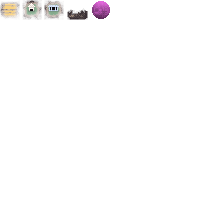
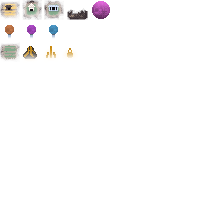
Replacement sprites for tiles

diff --git a/Assets/Scripts/GridView/LandGridTile.cs b/Assets/Scripts/GridView/LandGridTile.cs
@@ -9,12 +9,14 @@ public class LandGridTile : ManagedBehaviour
 
     public TileImprovementType Improvement { get; private set; }
 
-    public void AddImprovement(TileImprovementType improvementType)
+    public void AddImprovement(TileImprovementType improvementType, CivType civ)
     {
         Improvement = improvementType;
-        var prefab = GameDataReferences.GetTimeImprovementPrefab(improvementType);
+        var prefab = GameDataReferences.GetTileImprovementPrefab(improvementType);
         var obj = Instantiate(prefab, transform);
         obj.transform.localPosition = Vector2.zero;
+
+        obj.GetComponent<TileImprovement>().SetCiv(civ);
 
         ScreenShake.instance.AddIntensity(3f);
     }

diff --git a/Assets/Scripts/GridView/TileImprovement.cs b/Assets/Scripts/GridView/TileImprovement.cs
@@ -15,4 +15,21 @@ public class TileImprovement : ManagedBehaviour
     public TileImprovementType ImprovementType => improvementType;
     [SerializeField]
     private TileImprovementType improvementType;
+
+    public SpriteRenderer sr;
+
+    public List<CivType> civs = new List<CivType>();
+    public List<Sprite> sprites = new List<Sprite>();
+
+    public void SetCiv(CivType civ)
+    {
+        if (civs.Contains(civ))
+        {
+            int index = civs.IndexOf(civ);
+            if (index < sprites.Count && sr != null)
+            {
+                sr.sprite = sprites[index];
+            }
+        }
+    }
 }

diff --git a/Assets/Scripts/GridView/LandGrid.cs b/Assets/Scripts/GridView/LandGrid.cs
@@ -44,12 +44,12 @@ public class LandGrid : ManagedBehaviour
     }
 #endif
 
-    public void AddImprovementToRandomTile(TileImprovementType improvementType)
+    public void AddImprovementToRandomTile(TileImprovementType improvementType, CivType civ)
     {
         var openTiles = tiles.FindAll(x => x.gameObject.activeSelf && x.Improvement == TileImprovementType.None);
         if (openTiles.Count > 0)
         {
-            openTiles[Random.Range(0, openTiles.Count)].AddImprovement(improvementType);
+            openTiles[Random.Range(0, openTiles.Count)].AddImprovement(improvementType, civ);
         }
     }
 

diff --git a/Assets/Scripts/GameDataReferences.cs b/Assets/Scripts/GameDataReferences.cs
@@ -35,7 +35,7 @@ public static class GameDataReferences
         return technologies.Find(x => x.technologyType == techType);
     }
 
-    public static GameObject GetTimeImprovementPrefab(TileImprovementType tileType)
+    public static GameObject GetTileImprovementPrefab(TileImprovementType tileType)
     {
         TryInitialize();
         return tileImprovementPrefabs.Find(x => x.GetComponent<TileImprovement>().ImprovementType == tileType);

diff --git a/Assets/Scripts/Civilization.cs b/Assets/Scripts/Civilization.cs
@@ -78,7 +78,7 @@ public class Civilization : ManagedBehaviour
 
     public void AddImprovement(TileImprovementType improvementType)
     {
-        landGrid.AddImprovementToRandomTile(improvementType);
+        landGrid.AddImprovementToRandomTile(improvementType, type);
     }
 
     public void Tick(float timeStep)
